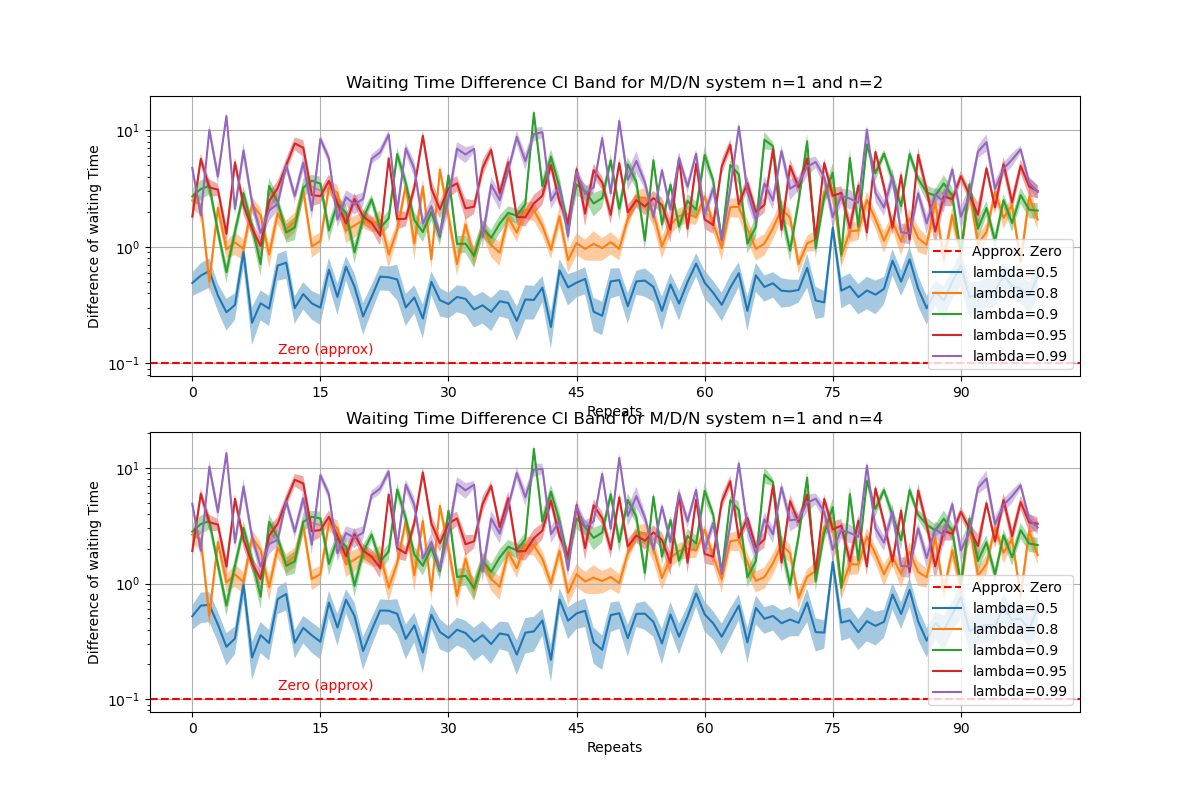
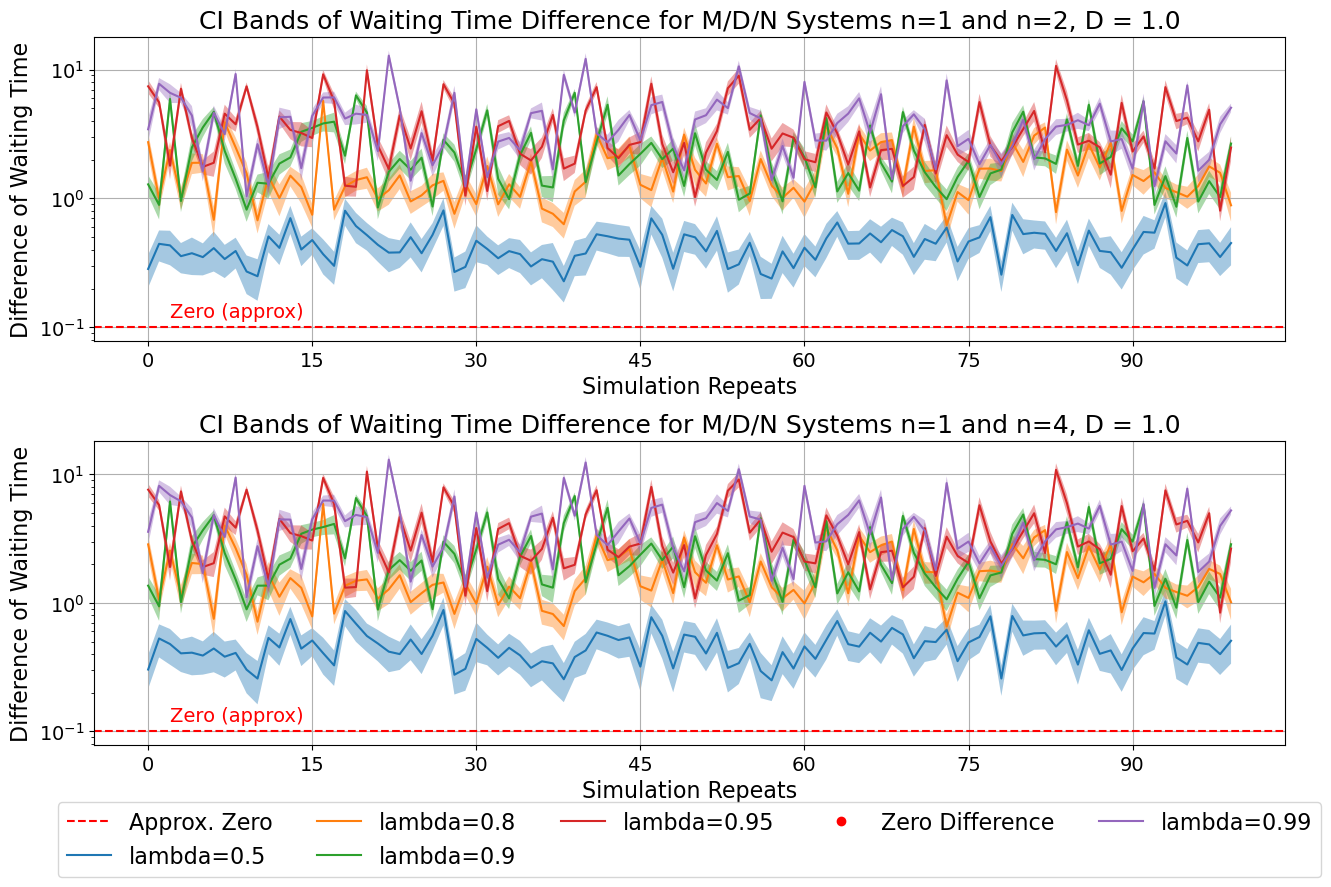
plotting enhancement

diff --git a/src/main.py b/src/main.py
@@ -36,14 +36,18 @@ def run_multi_CI_band():
     customers = 1000
     repeats = 100  # Total simulation time
     
-    plt.figure(figsize=(12, 8))
+    plt.figure(figsize=(14, 12))
+    plt.subplots_adjust(hspace=0.4)  # adjust the space between the plots
+
     p12 = plt.subplot(2, 1, 1)
     p12.axhline(y=1e-1, color='red', linestyle='--', label='Approx. Zero')
-    p12.text(10, 1.2e-1, 'Zero (approx)', color='red')
+    p12.text(2, 1.2e-1, 'Zero (approx)', color='red', fontsize=14)
+    p12.tick_params(axis='both', labelsize=12)
 
     p14 = plt.subplot(2, 1, 2)
     p14.axhline(y=1e-1, color='red', linestyle='--', label='Approx. Zero')
-    p14.text(10, 1.2e-1, 'Zero (approx)', color='red')
+    p14.text(2, 1.2e-1, 'Zero (approx)', color='red', fontsize=14)
+    p14.tick_params(axis='both', labelsize=12)
 
     for lam in LAMBDAS:
         # Simulate multiple systems with separate arrival queues
@@ -70,13 +74,15 @@ def run_multi_CI_band():
                 if lower_bounds[i] <= 0 <= upper_bounds[i]:
                     p.plot(i, 0, 'ro')
 
-            p.set_xlabel("Repeats")
-            p.set_ylabel("Difference of waiting Time")
-            p.set_title(f"Waiting Time Difference CI Band for system n=1 and n={key}")
-            p.legend()
+            p.set_xlabel("Simulation Repeats", fontsize=16)
+            p.set_ylabel("Difference of Waiting Time", fontsize=18)
+            p.set_title(f"CI Bands of Waiting Time Difference between M/M/n System n=1 and n={key}", fontsize=18)
             p.grid()
     
-    plt.savefig(f"../visualization/CI_band_plot_FIFO_sys.png")
+    handles, labels = p12.get_legend_handles_labels()
+    plt.legend(handles, labels, loc='upper center', bbox_to_anchor=(0.5, -0.15), ncol=len(LAMBDAS), fontsize=16)
+    plt.tight_layout(rect=[0, 0.1, 1, 1])
+    plt.savefig(f"../visualization/CI_band_plot_FIFO_sys.png", bbox_inches='tight')
     
 def run_multi_server_system_sjf():
     sim_time = 1000  # Total simulation time
@@ -95,8 +101,6 @@ def run_multi_CI_band_sjf():
     repeats = 100  # Total simulation time
 
     plt.figure(figsize=(10, 6))
-    # plt.axhline(y=3e-1, color='red', linestyle='--', label='Approx. Zero')
-    # plt.text(10, 1e-3, 'Zero (approx)', color='red')
 
     zero_points = {}
     color = ['b', 'g', 'r', 'c', 'm', 'y', 'k']
@@ -120,28 +124,32 @@ def run_multi_CI_band_sjf():
         if len(zero_points[key]) > 0:
             plt.plot(zero_points[key], [0] * len(zero_points[key]), 'o', label=f"Zero in time difference for rho={key}", color=color[i])
     
-    plt.xlabel("Repeats")
-    plt.ylabel("Difference of waiting Time")
-    plt.title("Waiting Time Difference CI Band for SJF and FIFO systems")
+    plt.xlabel("Simulation Repeats", fontsize=16)
+    plt.ylabel("Difference of Waiting Time", fontsize=16)
+    plt.title("CI Bands of Waiting Time Difference Between FIFO and SJF Systems, with n=1 ", fontsize=18)
     plt.legend()
     plt.grid()
     plt.savefig(f"../visualization/CI_band_plot_SJF_sys.png")
 
 def run_multi_CI_band_MDN_and_long_tail():
-    customers = 100
+    customers = 1000
     repeats = 100  # Total simulation time
     service_list = ["constant", "long_tail"]
     
     for s in service_list:
-        plt.figure(figsize=(12, 8))
+        plt.figure(figsize=(14, 10))
+        plt.subplots_adjust(hspace=0.4)  # adjust the space between the plots
+        
         p12 = plt.subplot(2, 1, 1)
         p14 = plt.subplot(2, 1, 2)
         if s == "constant":
             p12.axhline(y=1e-1, color='red', linestyle='--', label='Approx. Zero')
-            p12.text(10, 1.2e-1, 'Zero (approx)', color='red')
+            p12.text(2, 1.2e-1, 'Zero (approx)', color='red', fontsize=14)
+            p12.tick_params(axis='both', labelsize=14)
 
             p14.axhline(y=1e-1, color='red', linestyle='--', label='Approx. Zero')
-            p14.text(10, 1.2e-1, 'Zero (approx)', color='red')
+            p14.text(2, 1.2e-1, 'Zero (approx)', color='red', fontsize=14)
+            p14.tick_params(axis='both', labelsize=14)
 
         for lam in LAMBDAS:
             # Simulate multiple systems with separate arrival queues
@@ -150,11 +158,21 @@ def run_multi_CI_band_MDN_and_long_tail():
 
             # system_CI_bands is a dictionary with key as the number of servers and value as a tuple of 3 np.arrays
             for key, (mean_diff_waits, lower_bounds, upper_bounds) in systems_CI_bands.items():
+                zeros = []
                 if key == 1:
                     continue # n=1, base system, no need to compare with itself
 
                 if key == 2:
                     p = p12
+                    for i in range(repeats):
+                        if lower_bounds[i] <= 0 <= upper_bounds[i]:
+                            zeros.append(i)
+                            #p.plot(i, 0, 'ro')
+                    if lam == 0.99:
+                        p.plot(zeros, np.zeros(len(zeros)), 'ro', label="Zero Difference")
+                    else:
+                        p.plot(zeros, np.zeros(len(zeros)), 'ro')
+
                 else:
                     p = p14
                 
@@ -165,24 +183,22 @@ def run_multi_CI_band_MDN_and_long_tail():
                 
                 if s == "constant":
                     p.set_yscale('log')
-                
-                for i in range(repeats):
-                    if lower_bounds[i] <= 0 <= upper_bounds[i]:
-                        p.plot(i, 0, 'ro')
 
-                p.set_xlabel("Repeats")
-                p.set_ylabel("Difference of waiting Time")
+                p.set_xlabel("Simulation Repeats", fontsize=16)
+                p.set_ylabel("Difference of Waiting Time", fontsize=16)
                 if s == "constant":
-                    p.set_title(f"Waiting Time Difference CI Band for M/D/N system n=1 and n={key}")
+                    p.set_title(f"CI Bands of Waiting Time Difference for M/D/N Systems n=1 and n={key}, D = 1.0", fontsize=18)
                 else:
-                    p.set_title(f"Waiting Time Difference CI Band for Long Tail system n=1 and n={key}")
-                p.legend()
+                    p.set_title(f"CI Bands of Waiting Time Difference for Long Tail Systems n=1 and n={key}, service rate 1.0 for 75% jobs, 0.2 for 25% jobs", fontsize=18)
                 p.grid()
-        
+
+        handles, labels = p12.get_legend_handles_labels()
+        plt.legend(handles, labels, loc='upper center', bbox_to_anchor=(0.5, -0.15), ncol=len(LAMBDAS), fontsize=16)
+        plt.tight_layout(rect=[0, 0.1, 1, 1])
         if s == "constant":
-            plt.savefig(f"../visualization/CI_band_plot_MDN_sys.png")
+            plt.savefig(f"../visualization/CI_band_plot_MDN_sys.png", bbox_inches='tight')
         else:
-            plt.savefig(f"../visualization/CI_band_plot_long_tail_sys.png")
+            plt.savefig(f"../visualization/CI_band_plot_long_tail_sys.png", bbox_inches='tight')
 
 def main_controller():
     try:

diff --git a/src/visualize_util.py b/src/visualize_util.py
@@ -55,11 +55,7 @@ def visulize_all_parameters_pair_diff_waiting_time_sjf(miu, lambdas, fileName_pr
     linestyles = ['-', '--', '-.', ':']
     markers = ['o', 's', 'D', 'v', '^', '<', '>', 'p', 'h', 'H', '8', '*', 'X']
     results = {}
-    # plot the results
-    plt.figure(figsize=(10, 6))
-    plt.xlabel("Customer Number")
-    plt.ylabel("Waiting Time Difference")
-    plt.title(f"Difference in Waiting Time for Customers in SFJ and FIFO Systems, with n=1 servers")
+    
     for lam in lambdas:
         # read from the file
         customers_base, _, waiting_time_base, _= fs.read(1, fs.SIMU_RESULT_PATH, lam, miu, prefix="Comparison_FIFO")
@@ -71,13 +67,32 @@ def visulize_all_parameters_pair_diff_waiting_time_sjf(miu, lambdas, fileName_pr
         waiting_time_compared = list(waiting_time_compared)
 
         rho = lam / miu
+        
+        # plot the results
+        # plt.rc('font', size=20)
+        plt.figure(figsize=(10, 6))
+
+        # change font size of the labels
+        plt.xlabel("Customer Number", fontsize=20)
+        plt.ylabel("Waiting Time", fontsize=20)
+        plt.title(f"Waiting Time for Customers in SFJ and FIFO Systems, both with n=1 server", fontsize=16)
+
+        plt.tick_params(axis='x', labelsize=12)  # set X axis scale font size
+        plt.tick_params(axis='y', labelsize=14)  # set Y axis scale font size
+
         plt.plot(customers_base, waiting_time_base, label=f"FIFO_rho_{rho}", color=colors[i % len(colors)], linestyle=linestyles[i % len(linestyles)])
         i += 1
         plt.plot(customers_compared, waiting_time_compared, label=f"SJF_rho_{rho}", color=colors[i % len(colors)], linestyle=linestyles[i % len(linestyles)])
-        
-    plt.legend()
-    plt.grid()
-    plt.savefig(f"{fs.SIMU_VISUALIZATION_PATH}{fileName_prefix}_waiting_time_diff_with_n_1.png")
+
+        # calculate the area under each plot
+        area_base = np.trapz(waiting_time_base, customers_base)
+        area_compared = np.trapz(waiting_time_compared, customers_compared)
+        print(f"rho: {rho}, area_base: {area_base}, area_compared: {area_compared}, diff: {area_base - area_compared}")
+            
+        plt.legend(fontsize=12)
+        plt.grid()
+        plt.savefig(f"{fs.SIMU_VISUALIZATION_PATH}{fileName_prefix}_waiting_time_diff_with_n_1_Rho_{ rho }.png")
+        plt.close()
 
 # Example Usage:
 if __name__ == "__main__":
